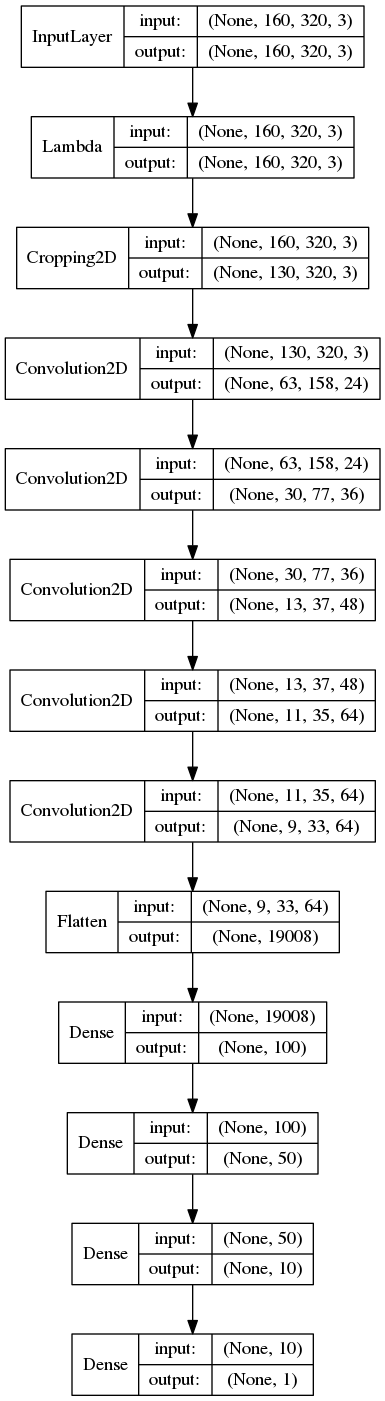
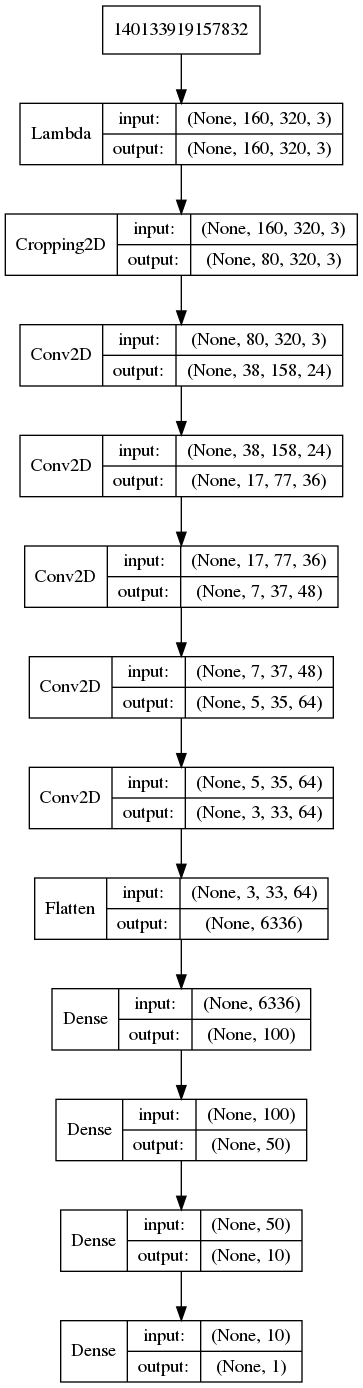
Add comments to the model, update the model graph

Changed region(s): [[0.0, 0.0, 1.0, 1.0], [0.0, 0.5576, 0.0303, 0.6196], [0.0, 0.4027, 0.0303, 0.4337]]

diff --git a/model.py b/model.py
@@ -16,7 +16,13 @@ from keras.utils.visualize_util import plot
 import matplotlib.pyplot as plt
 
 def plot_error(history):
-	print('Inside plot')
+	"""
+        MSE Plot function
+
+        Arguments:
+        history: model trainning history
+	"""
+	
 	plt.plot(history.history['loss'])
 	plt.plot(history.history['val_loss'])
 	plt.title('model mean squared error loss')
@@ -26,6 +32,13 @@ def plot_error(history):
 	plt.show()
 
 def generator(samples, batch_size=128):
+	"""
+	Batch Generator
+
+	Arguments:
+		samples: List of tuples. Each entry contains a filenames and an angle 
+		batch_size: Size of the batch
+	"""
 	num_samples = len(samples)
 	while 1:
 		sklearn.utils.shuffle(samples)
@@ -41,12 +54,6 @@ def generator(samples, batch_size=128):
 				image = cv2.imread(name)
 				image = cv2.cvtColor(image,cv2.COLOR_BGR2RGB)
 				angle = float(batch_sample[1])
-				"""if (index % 8 == 0):
-					flipped_image = cv2.flip(image, 1)
-					flipped_angle = angle*-1.0
-					images.append(flipped_image)
-					angles.append(flipped_angle)
-				else:"""
 				images.append(image)
 				angles.append(angle)
 								
@@ -55,9 +62,15 @@ def generator(samples, batch_size=128):
 		yield sklearn.utils.shuffle(X_train, y_train)
 
 def get_model():
-	print('Inside model()')
+	"""
+	Returns a reference to a model. The model is based on a publication by
+	NVIDIA's autonomous vehicule team
+	"""
+
 	model = Sequential()
+	#Normalization layer
 	model.add(Lambda(lambda x: x /255.0 - 0.5, input_shape=(160, 320, 3)))
+	#Cropping layer
 	model.add(Cropping2D(cropping=((55,25),(0,0))))
 	model.add(Convolution2D(24,5,5,subsample=(2,2),activation="relu"))
 	model.add(Convolution2D(36,5,5,subsample=(2,2),activation="relu"))
@@ -74,28 +87,33 @@ def get_model():
 
 def train():
 	samples = []
+        #Load filenames and steering angles
 	with open('data/driving_log.csv') as csvfile:
 
 		reader = csv.reader(csvfile)
 		csvfile.readline()
+                #correction angles are currently fixed
 		correction = [0.0, 0.25, -0.25]
 		for line in reader:
 			for i in range(3):
 				angle = float(line[3]) + correction[i]
 				new_sample = (line[i],angle)
 				samples.append(new_sample)
-
+	#Augmented data set is split into a trainning and validation set 80/20
 	train_samples, validation_samples = train_test_split(samples, test_size=0.2)
 
+	#Due to the size of the data they are loaded into memory on demand using generators
 	train_generator = generator(train_samples, batch_size=128)
 	validation_generator = generator(validation_samples, batch_size=128)
 
 	model = get_model()
-
+	#Plot the model architecture
 	plot(model, to_file='model.png', show_shapes=True, show_layer_names=False)
 	history_object = model.fit_generator(train_generator, samples_per_epoch= len(train_samples), validation_data=validation_generator, nb_val_samples=len(validation_samples), nb_epoch=2, verbose=1)
-	model.save('model.h5')
 
+	#Save the trainned model
+	model.save('model.h5')
+	#Plot MSE per epoch
 	plot_error(history_object)
 
 if __name__ == '__main__':
